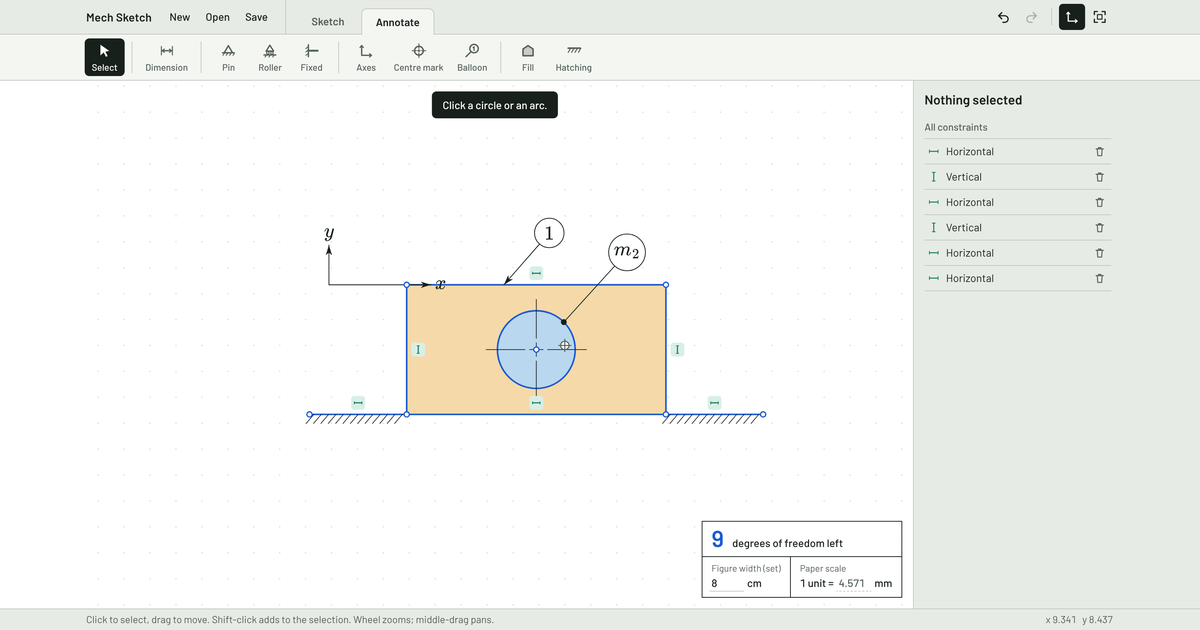
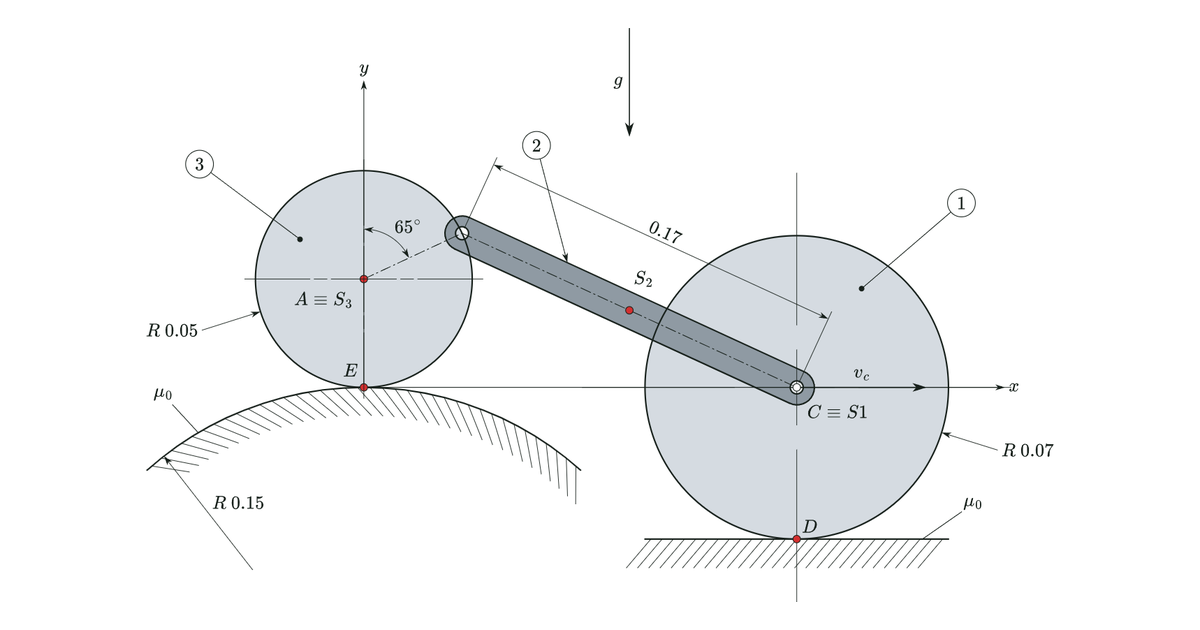
Preview picture shows a finished figure
The picture beside a shared link was a screenshot of the editor. It is now a
figure made with the tool: two discs joined by a link, with dimensions,
labels and hatched ground, fitted into 1200 x 630 on white. The alternative
text says what the new picture shows.

Claude-Session: https://claude.ai/code/session_01PctM54DUzxiyUDmdrZqDTA

diff --git a/index.html b/index.html
@@ -15,7 +15,7 @@
 <meta property="og:image" content="https://mech-sketch.org/preview.png">
 <meta property="og:image:width" content="1200">
 <meta property="og:image:height" content="630">
-<meta property="og:image:alt" content="The Mech Sketch editor with a figure that has axes, balloons, a fill and hatched ground">
+<meta property="og:image:alt" content="A mechanics figure drawn in Mech Sketch: two discs joined by a link, with dimensions, labels and hatched ground">
 <meta name="twitter:card" content="summary_large_image">
 <!-- The same facts in the form search engines read. -->
 <script type="application/ld+json">
